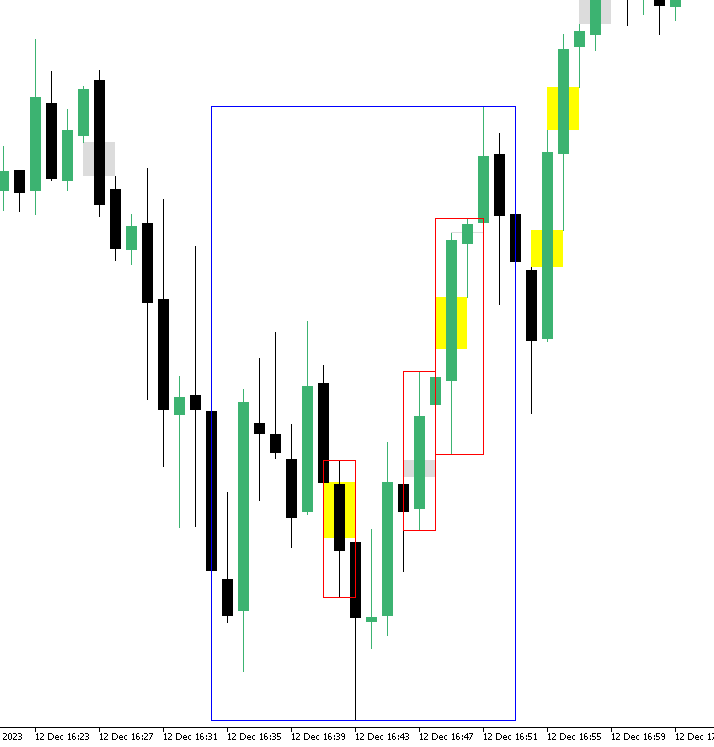
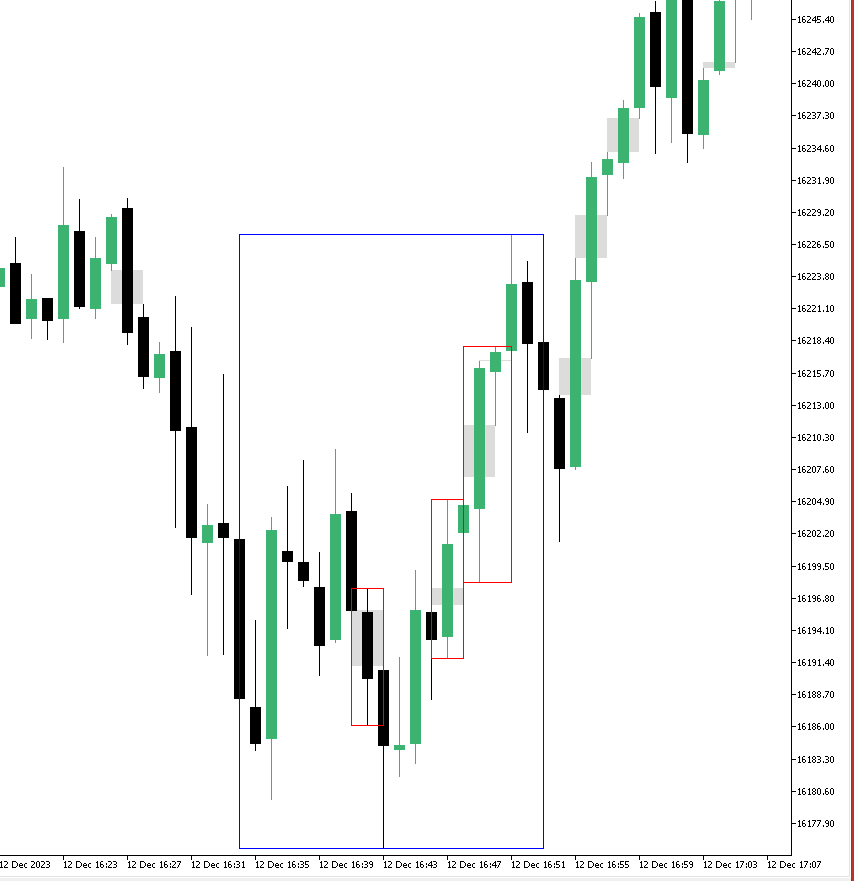
Replaces image

Changed region(s): [[0.0, 0.0, 1.0, 1.0], [0.5854, 0.2463, 0.6162, 0.2771]]

diff --git a/README.md b/README.md
@@ -229,3 +229,5 @@ A simple indicator has been implemented to showcase how TradeQL can be used. Thi
 The blue square shows the full match, and the red squares show the captured groups. In the query we are capturing two groups, the first one is `(If)+` (one or more forward imbalances) and the second one is `(Ir)+` (one or more reverse imbalances). The captured groups are highlighted in red.
 
 If there are no matches, the indicator will simply show a black box around the target bars.
+
+> NOTE: Gray boxes are provided by another indicator and are not part of this demo indicator. These are used to highlight imbalances.
